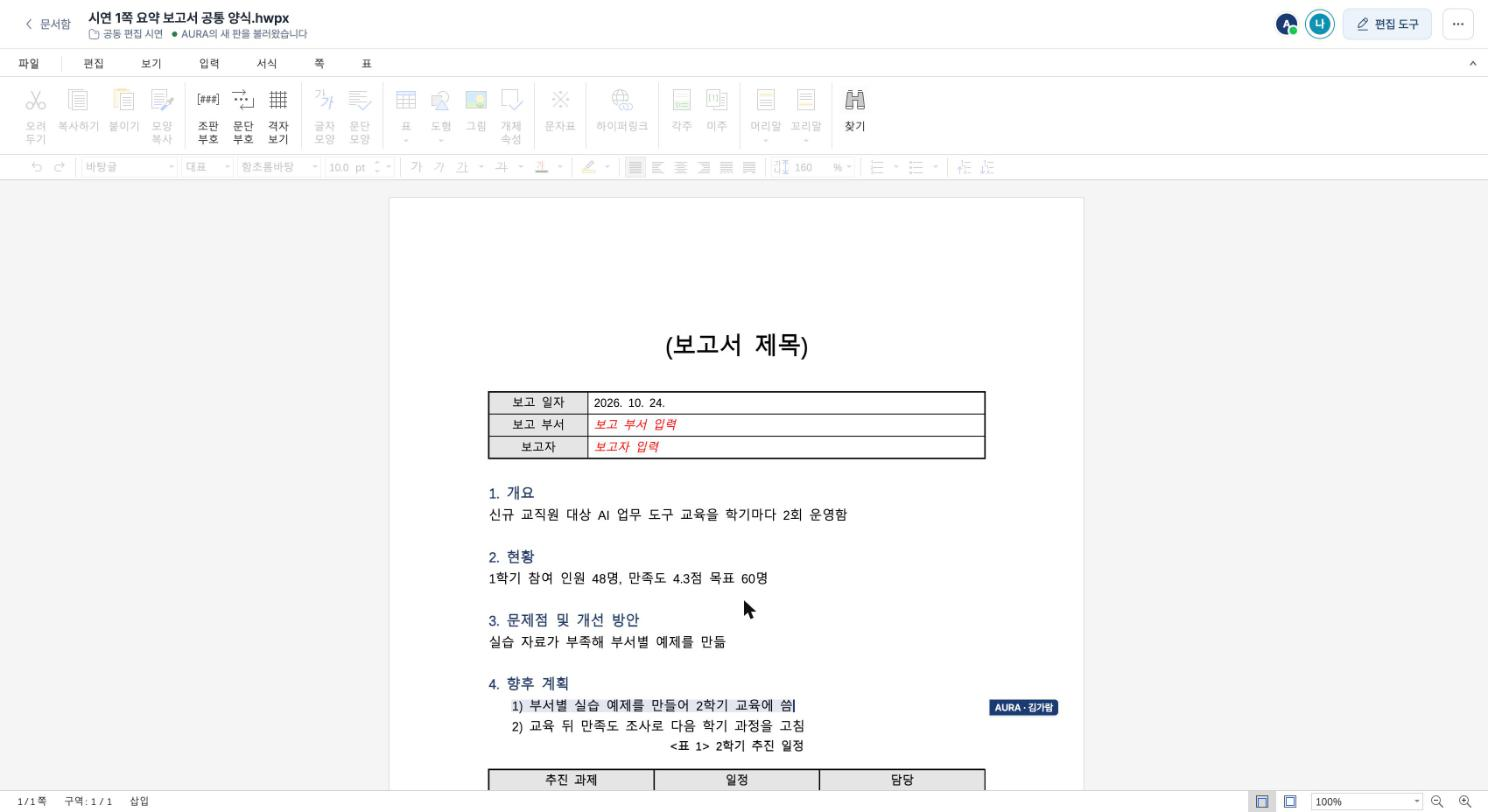
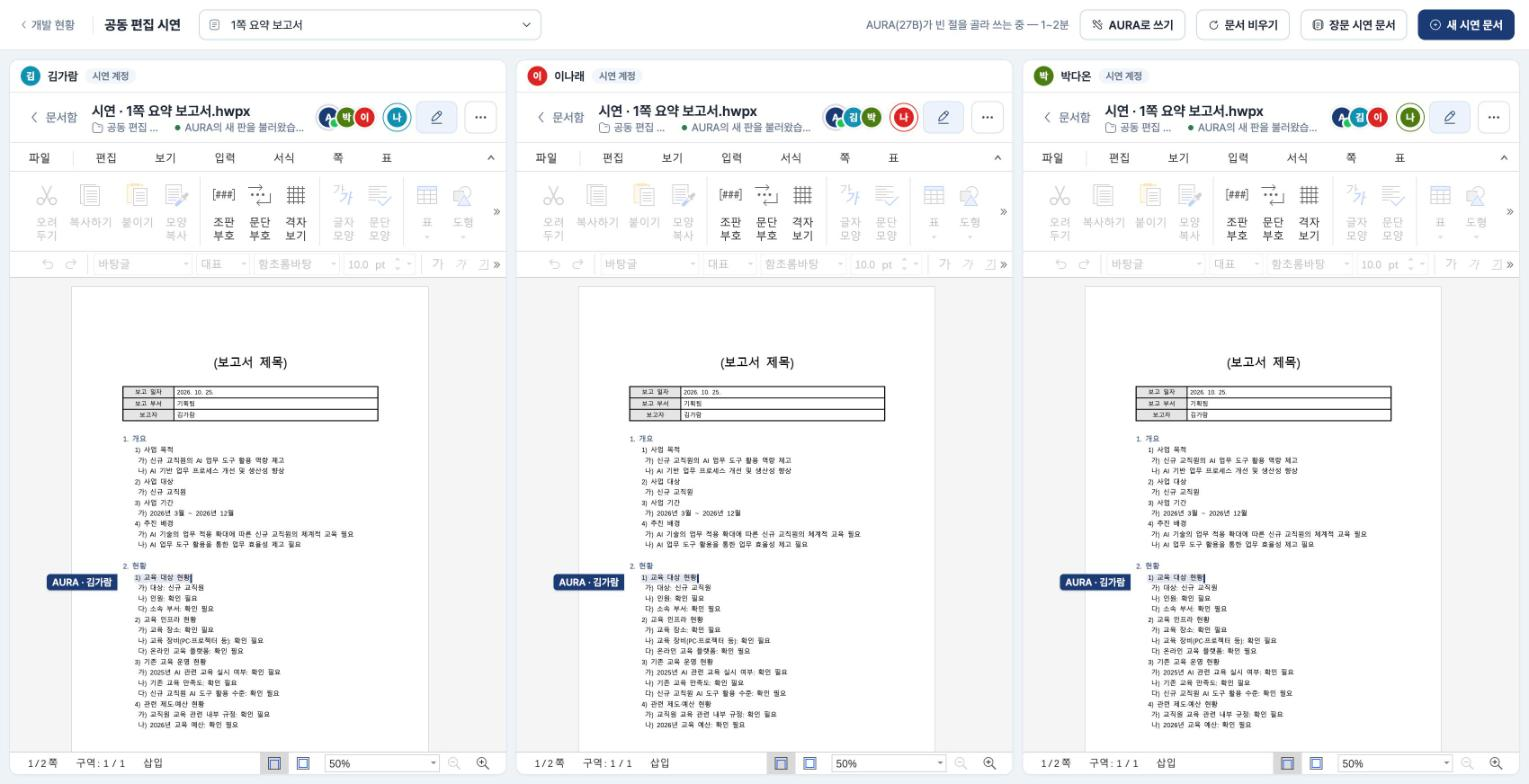
논문 [그림 2-25]: 실제 27B 가 시연 문서 절을 쓰는 화면으로 다시 찍음(세 창 새 판·AURA · 김가람), 기안기 절 쓰기 설명을 서버가 hwpx 에 넣는 실제 구조로

diff --git a/docs/paper/논문/02-관련-연구.md b/docs/paper/논문/02-관련-연구.md
@@ -308,11 +308,11 @@ AURA 의 문서 작업 에이전트는 매 단계 상태(요청, 최근 대화, 
 편집하며, 자바스크립트 API 로 필드(누름틀) 읽기·쓰기, 커서 이동, 동작 실행을 제어할 수 있다. AURA 는 13.82.0.208 판을 교내 서버에 두고 쓴다.
 
 선택 이유는 교내 행정 서식이 한글이기 때문이다. 한글 서식을 다른 형식으로 바꿔 편집하면 표와 쪽 배치가 달라진다. 기안기에서 원본을 그대로 열면 담당자는
-익숙한 한글 화면에서 고치고, AURA 에이전트는 같은 API 로 칸 값을 쓰고 절 본문을 넣는다. 기안기에 이미 있는 기능(편집 용지, 쪽 번호, 머리말, 표 편집 등)은
+익숙한 한글 화면에서 고치고, AURA 에이전트가 서버에서 hwpx 의 절 누름틀 뒤에 본문을 넣으면 열린 기안기들이 그 새 판을 다시 불러온다(4장). 기안기에 이미 있는 기능(편집 용지, 쪽 번호, 머리말, 표 편집 등)은
 AURA 화면에 다시 만들지 않고 기안기의 동작 실행으로 쓴다. 이를 위해 공개 API 메서드 103개와 실제 등록된 동작 467개를 조사해 사람과 에이전트가 쓸 수 있는
 기능 표를 만들었다.
 
-[그림 2-25] 한컴 웹 한글 기안기 화면 — AURA 에이전트가 쓰는 작업본 (그림 docs/images/figures-1025/f2-25-aura-writing-editor.jpg)
+[그림 2-25] 한컴 웹 한글 기안기 화면 — AURA 에이전트(27B)가 절을 쓰는 동안 세 사람이 같은 작업본을 연 모습(시연 계정) (그림 docs/images/figures-1025/f2-25-aura-writing-editor.jpg)
 
 ### 2.8.2 공동 편집 기법과 칸 단위 편집권
 

diff --git a/docs/paper/논문/그림-표-목록.md b/docs/paper/논문/그림-표-목록.md
@@ -45,7 +45,7 @@ docs/images/diagrams/ 의 make_diagrams.py(SVG)와 render.mjs(PNG)로 만든다.
 | [그림 2-22] | Presidio 로고 | docs/images/logos/f2-22-presidio.png (10-25, 출처: Presidio 공식 저장소(data-privacy-stack/presidio)) |
 | [그림 2-23] | 에이전트 실행 흐름 — 상태, 도구 선택, 관문, 실행, 기록 | docs/images/diagrams/c2-23-agent.png (10-25, make_diagrams_ch2.py) |
 | [그림 2-24] | 단계 추론과 문맥 사용량 표시 화면 | docs/images/figures-1025/f4-15-answer-sources-thinking.jpg (시연 화면) |
-| [그림 2-25] | 한컴 웹 한글 기안기 화면 — AURA 에이전트가 쓰는 작업본 | docs/images/figures-1025/f2-25-aura-writing-editor.jpg (10-25, 시연 문서 — AURA · 김가람 이 쓰는 중) |
+| [그림 2-25] | 한컴 웹 한글 기안기 화면 — AURA 에이전트(27B)가 절을 쓰는 동안 세 사람이 같은 작업본을 연 모습(시연 계정) | docs/images/figures-1025/f2-25-aura-writing-editor.jpg (10-25 21:45, 시연 「AURA로 쓰기」 — 실제 27B 가 「2. 현황」 을 쓰는 중, 세 시연 계정 창이 새 판을 받아 「AURA · 김가람」 깃발) |
 | [그림 2-26] | 칸 단위 공동 편집 구조 — 어댑터, 공동 편집 층, 서버 | docs/images/diagrams/03-hwp-coedit.png (10-24 다시 그림, make_diagrams.py) |
 | [그림 2-27] | SSE 알림 흐름 — 칸 변경 POST 와 사건 밀어 주기 | docs/images/diagrams/c2-27-sse.png (10-25, make_diagrams_ch2.py) |
 | [그림 2-28] | Google Docs·Google Drive 로고 | docs/images/logos/f2-28-google-docs.png + f2-28-google-drive.png (10-25, 출처: Google Workspace 브랜딩 안내 쪽) |
